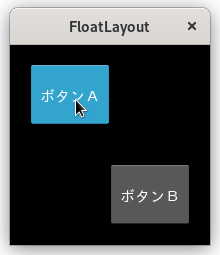
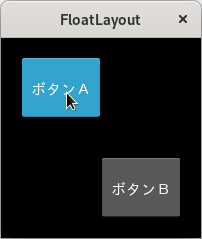
update

diff --git a/kivy_floatlayout_1.py b/kivy_floatlayout_1.py
@@ -1,0 +1,30 @@
+import sys
+
+import kivy
+import japanize_kivy
+from kivy.app import App
+from kivy.core.window import Window
+from kivy.lang import Builder
+from kivy.uix.floatlayout import FloatLayout
+
+Builder.load_file('kivy_floatlayout_1.kv')
+Window.size = (200, 200)
+
+
+class KivyFloatLayout(FloatLayout):
+    def on_button_pressed(self, instance):
+        print('%s がクリックされました。' % instance.text)
+
+
+class ExampleApp(App):
+    def build(self):
+        self.title = 'FloatLayout'
+        return KivyFloatLayout()
+
+
+if __name__ == '__main__':
+    # version information
+    print(sys.version)
+    print(kivy.__version__)
+    #
+    ExampleApp().run()
